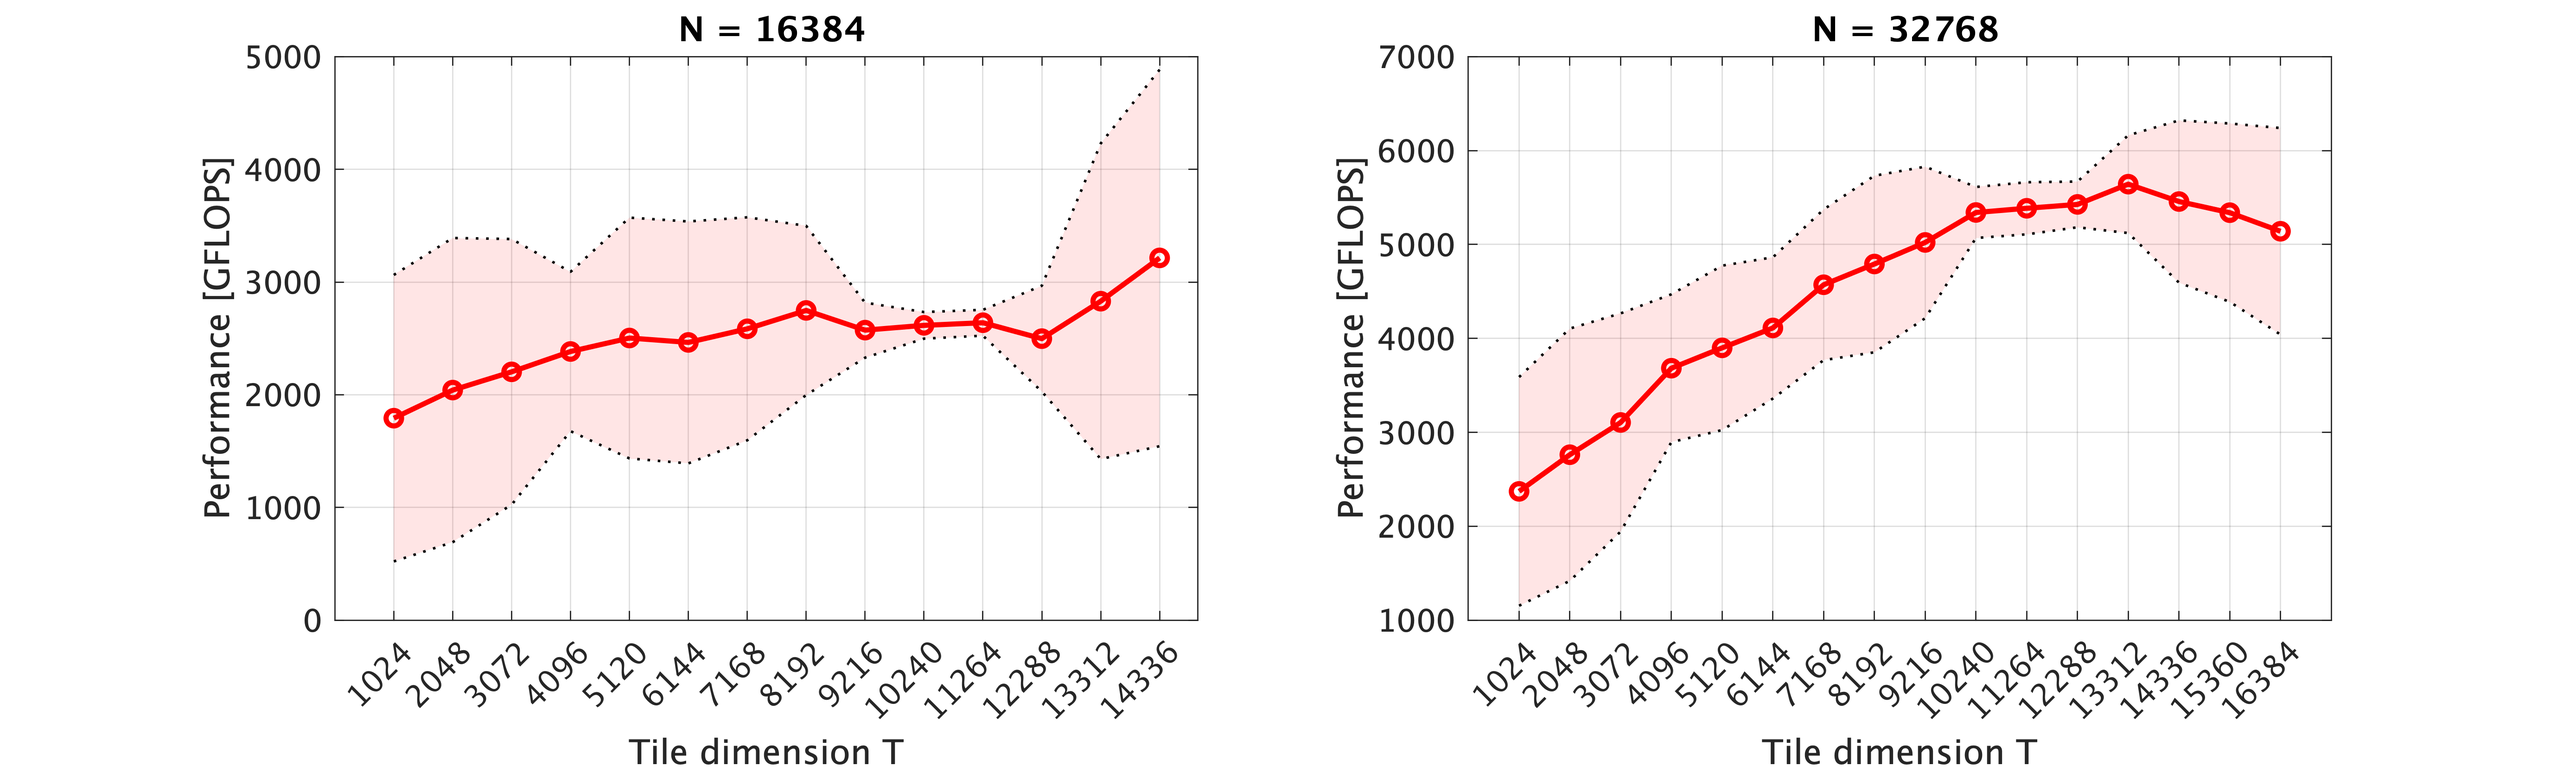
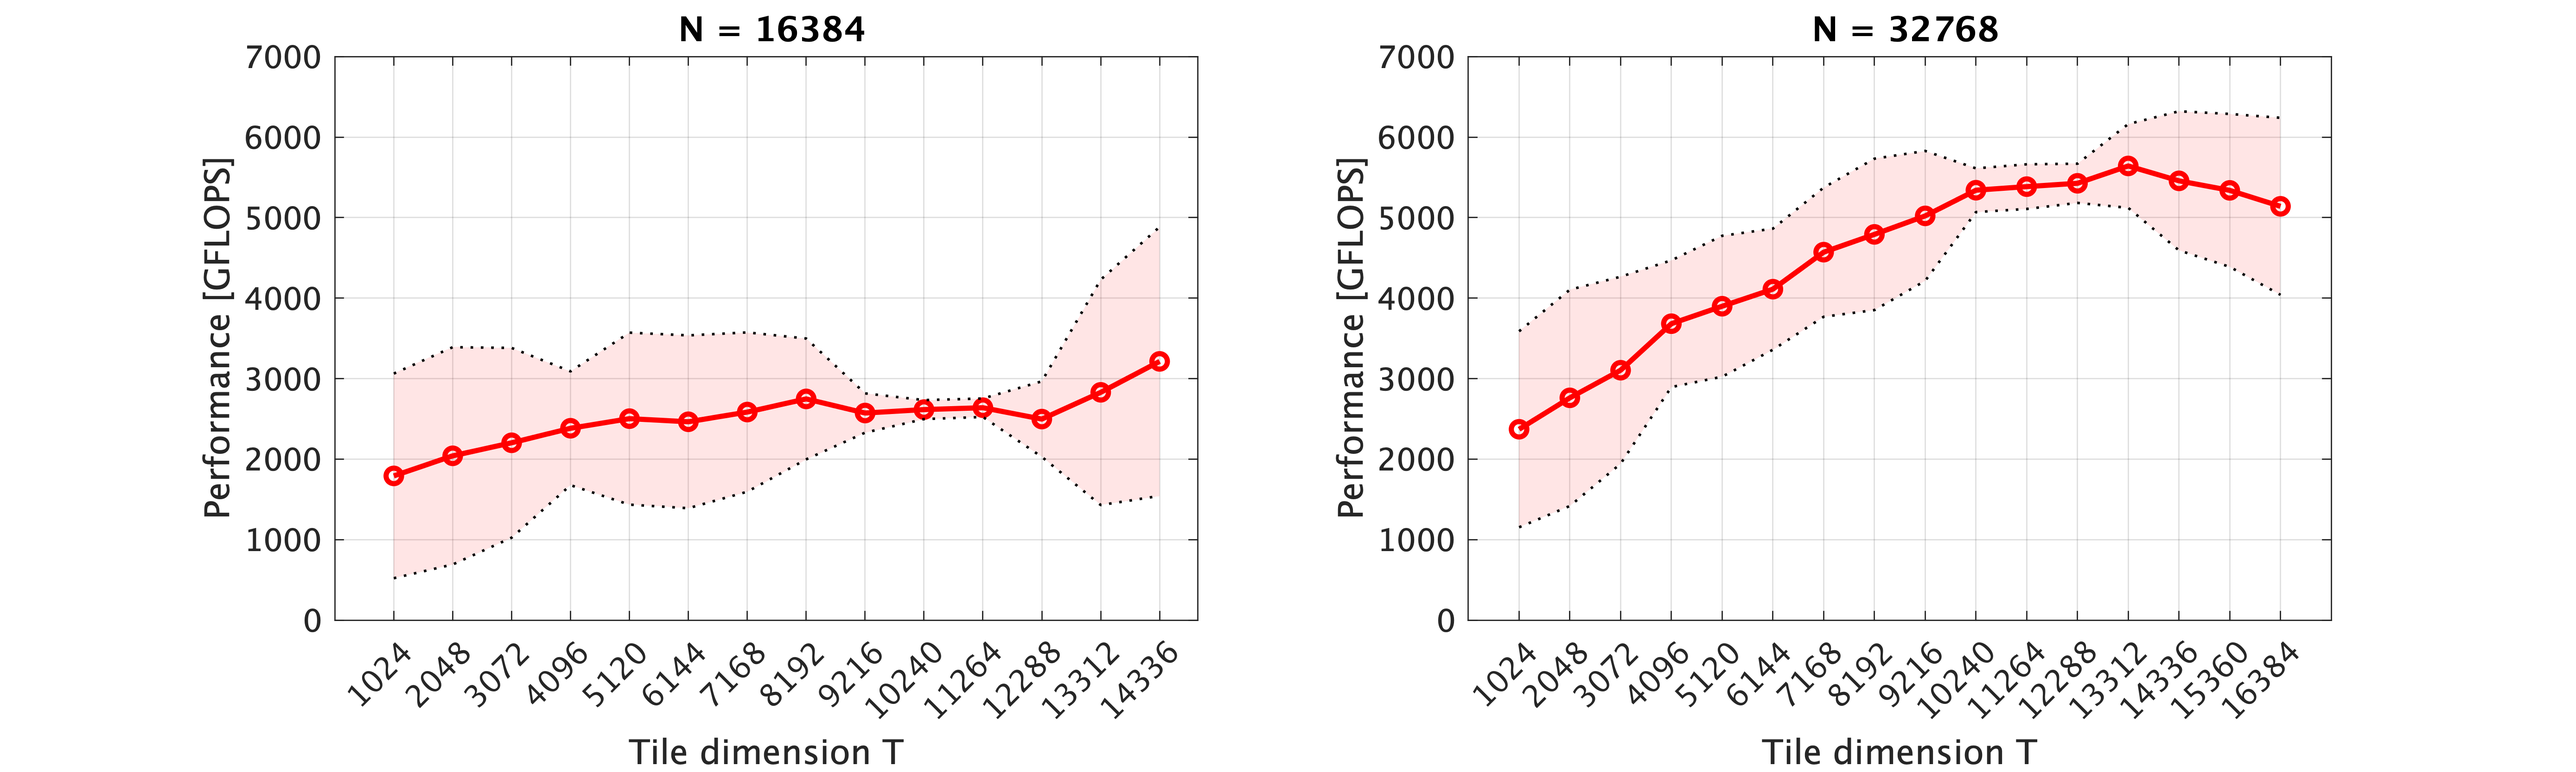
still updating plots

diff --git a/Benchmarks/Plots.m b/Benchmarks/Plots.m
@@ -39,7 +39,7 @@ for i = 1:l/3
     mGFLOPS(i) = mean(GFLOPS(i:(i+3)));
     vGFLOPS(i) = std(GFLOPS(i:(i+3)));
 end
-a = tinv(0.05,2)*vGFLOPS/sqrt(3);
+a = tinv(0.95,2)*vGFLOPS/sqrt(3);
 
 hold on; box on;
 counter = [blockdim(1:3:end); flipud(blockdim(1:3:end))];
@@ -55,6 +55,8 @@ xlabel('\fontname{SansSerif}Tile dimension T', 'FontSize', 16)
 ylabel('\fontname{SansSerif}Performance [GFLOPS]', 'FontSize', 16)
 xticks(1024:1024:14336)
 xtickangle(45)
+ylim([0, 15000])
+yticks(0:3000:15000)
 
 a = get(gca,'XTickLabel');
 set(gca,'XTickLabel',a,'FontName','SansSerif','fontsize',12)
@@ -77,7 +79,7 @@ for i = 1:l/3
     mGFLOPS(i) = mean(GFLOPS(i:(i+3)));
     vGFLOPS(i) = std(GFLOPS(i:(i+3)));
 end
-a = tinv(0.05,2)*vGFLOPS/sqrt(3);
+a = tinv(0.95,2)*vGFLOPS/sqrt(3);
 
 hold on; box on;
 counter = [blockdim(1:3:end); flipud(blockdim(1:3:end))];
@@ -93,6 +95,10 @@ xlabel('\fontname{SansSerif}Tile dimension T', 'FontSize', 16)
 ylabel('\fontname{SansSerif}Performance [GFLOPS]', 'FontSize', 16)
 xticks(blockdim(1:3:end))
 xlim([0, blockdim(end) + 1024])
+
+ylim([0, 15000])
+yticks(0:3000:15000)
+
 xtickangle(45)
 
 a = get(gca,'XTickLabel');
@@ -140,6 +146,8 @@ xlabel('\fontname{SansSerif}Tile dimension T', 'FontSize', 16)
 ylabel('\fontname{SansSerif}Performance [GFLOPS]', 'FontSize', 16)
 xticks(1024:1024:14336)
 xtickangle(45)
+ylim([0, 7000])
+yticks(0:1000:7000)
 
 a = get(gca,'XTickLabel');
 set(gca,'XTickLabel',a,'FontName','SansSerif','fontsize',12)
@@ -179,6 +187,8 @@ ylabel('\fontname{SansSerif}Performance [GFLOPS]', 'FontSize', 16)
 xticks(blockdim(1:3:end))
 xlim([0, blockdim(end) + 1024])
 xtickangle(45)
+ylim([0, 7000])
+yticks(0:1000:7000)
 
 a = get(gca,'XTickLabel');
 set(gca,'XTickLabel',a,'FontName','SansSerif','fontsize',12)
